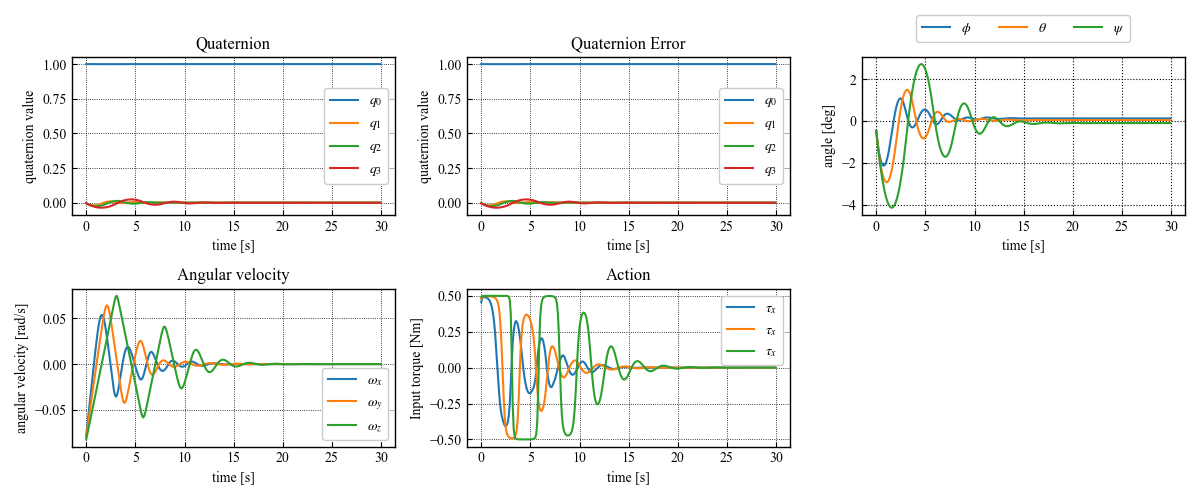
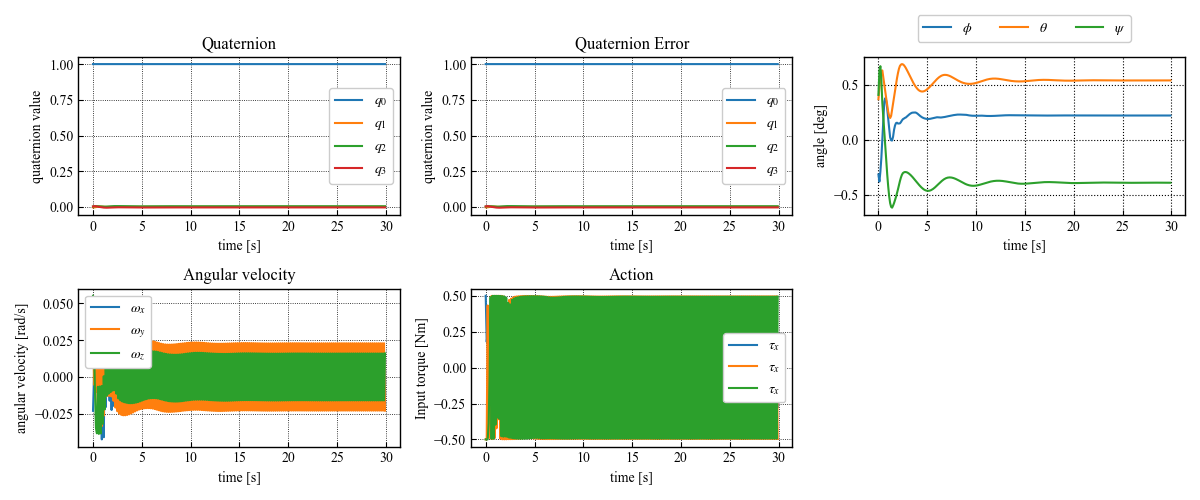
UPDATE: change purpose

diff --git a/train.py b/train.py
@@ -48,12 +48,12 @@ def train():
     critic_lr = config.critic_lr
     actor_lr = config.actor_lr
 
-    # agent = TD3Agent(env, gamma, tau, buffer_maxlen, critic_lr, actor_lr, True, max_episodes * max_steps,
-                    # policy_freq, policy_noise, noise_clip)
+    agent = TD3Agent(env, gamma, tau, buffer_maxlen, critic_lr, actor_lr, True, max_episodes * max_steps,
+                    policy_freq, policy_noise, noise_clip)
     # wandb.watch([agent.critic,agent.actor], log="all")
-    curr_dir = os.path.abspath(os.getcwd())
-    agent = torch.load(curr_dir + "/models/spacecraft_control_ddpg.pkl")
-    agent.device = torch.device("cuda" if torch.cuda.is_available() else "cpu")
+    # curr_dir = os.path.abspath(os.getcwd())
+    # agent = torch.load(curr_dir + "/models/spacecraft_control_ddpg.pkl")
+    # agent.device = torch.device("cuda" if torch.cuda.is_available() else "cpu")
     episode_rewards = mini_batch_train(env, agent, max_episodes, max_steps, batch_size)
 
     plt.figure()

diff --git a/environment.py b/environment.py
@@ -148,12 +148,12 @@ class SatelliteContinuousEnv(gym.Env):
         self.startEuler = np.deg2rad(np.array([0,0,0]))
         self.startQuate = self.dcm2quaternion(self.euler2dcm(self.startEuler))
         coef = 2*np.random.randint(0,2,size=3)-1
-        self.startOmega = coef*np.deg2rad(np.array([5,-5,5]))
+        self.startOmega = coef*np.deg2rad(np.array([0,0,0]))
         # self.startOmega = np.array([0,0,0])
 
         # 目標値(deg)
         coef = 2*np.random.randint(0,2,size=3)-1
-        self.goalEuler =  np.deg2rad(np.array([0, 0, 0])) #coef*np.random.uniform(np.pi/4, high=np.pi/3, size=3)
+        self.goalEuler = coef*np.random.uniform(np.pi/4, high=np.pi/3, size=3)
         # while np.array_equal(self.goalEuler, np.array([0, 0, 0])):
         #     self.goalEuler = (np.random.randint(-np.pi, high=np.pi, size=3))
         self.goalQuate = self.dcm2quaternion(self.euler2dcm(self.goalEuler))
